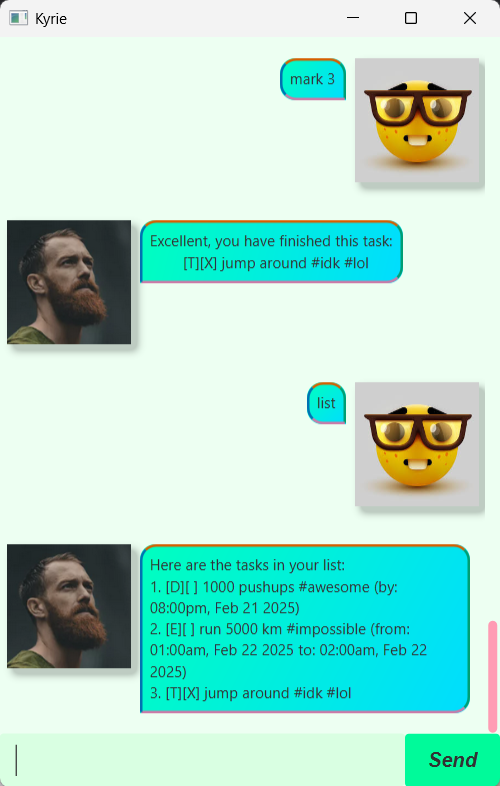
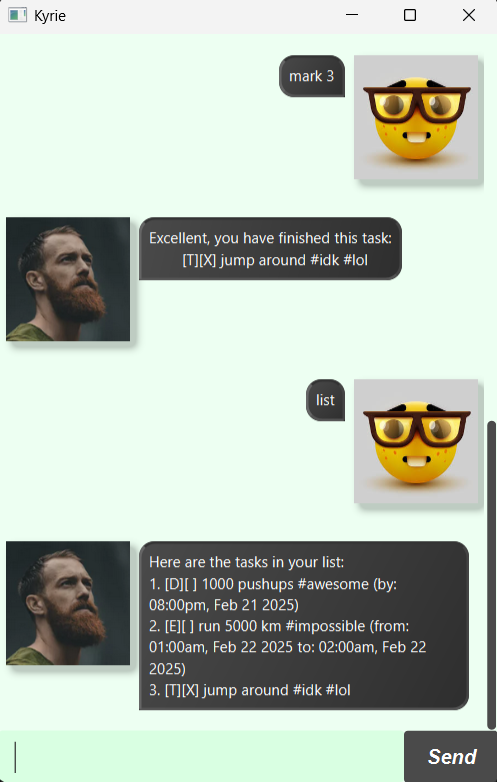
Update UI overall to have darker colors

diff --git a/src/main/resources/css/main.css b/src/main/resources/css/main.css
@@ -9,17 +9,18 @@
 }
 
 .button {
-    -fx-background-color: mediumspringgreen;
+    -fx-background-color: #4a4a4a; /* Dark grey background */
     -fx-font: italic bold 16px "Arial";
+    -fx-text-fill: #ffffff; /* White text */
 }
 
 .button:hover {
-    -fx-background-color:cyan;
+    -fx-background-color: #3a3a3a; /* Slightly lighter grey */
     -fx-font-size: 18px;
 }
 
 .button:pressed {
-    -fx-background-color:orange;
+    -fx-background-color: #2a2a2a; /* Even lighter grey */
     -fx-font-size: 20px;
 }
 
@@ -34,7 +35,7 @@
 }
 
 .scroll-bar .thumb {
-    -fx-background-color: #ff9cb4;
+    -fx-background-color: #4a4a4a; /* Dark grey */
     -fx-background-radius: 1em;
 }
 
